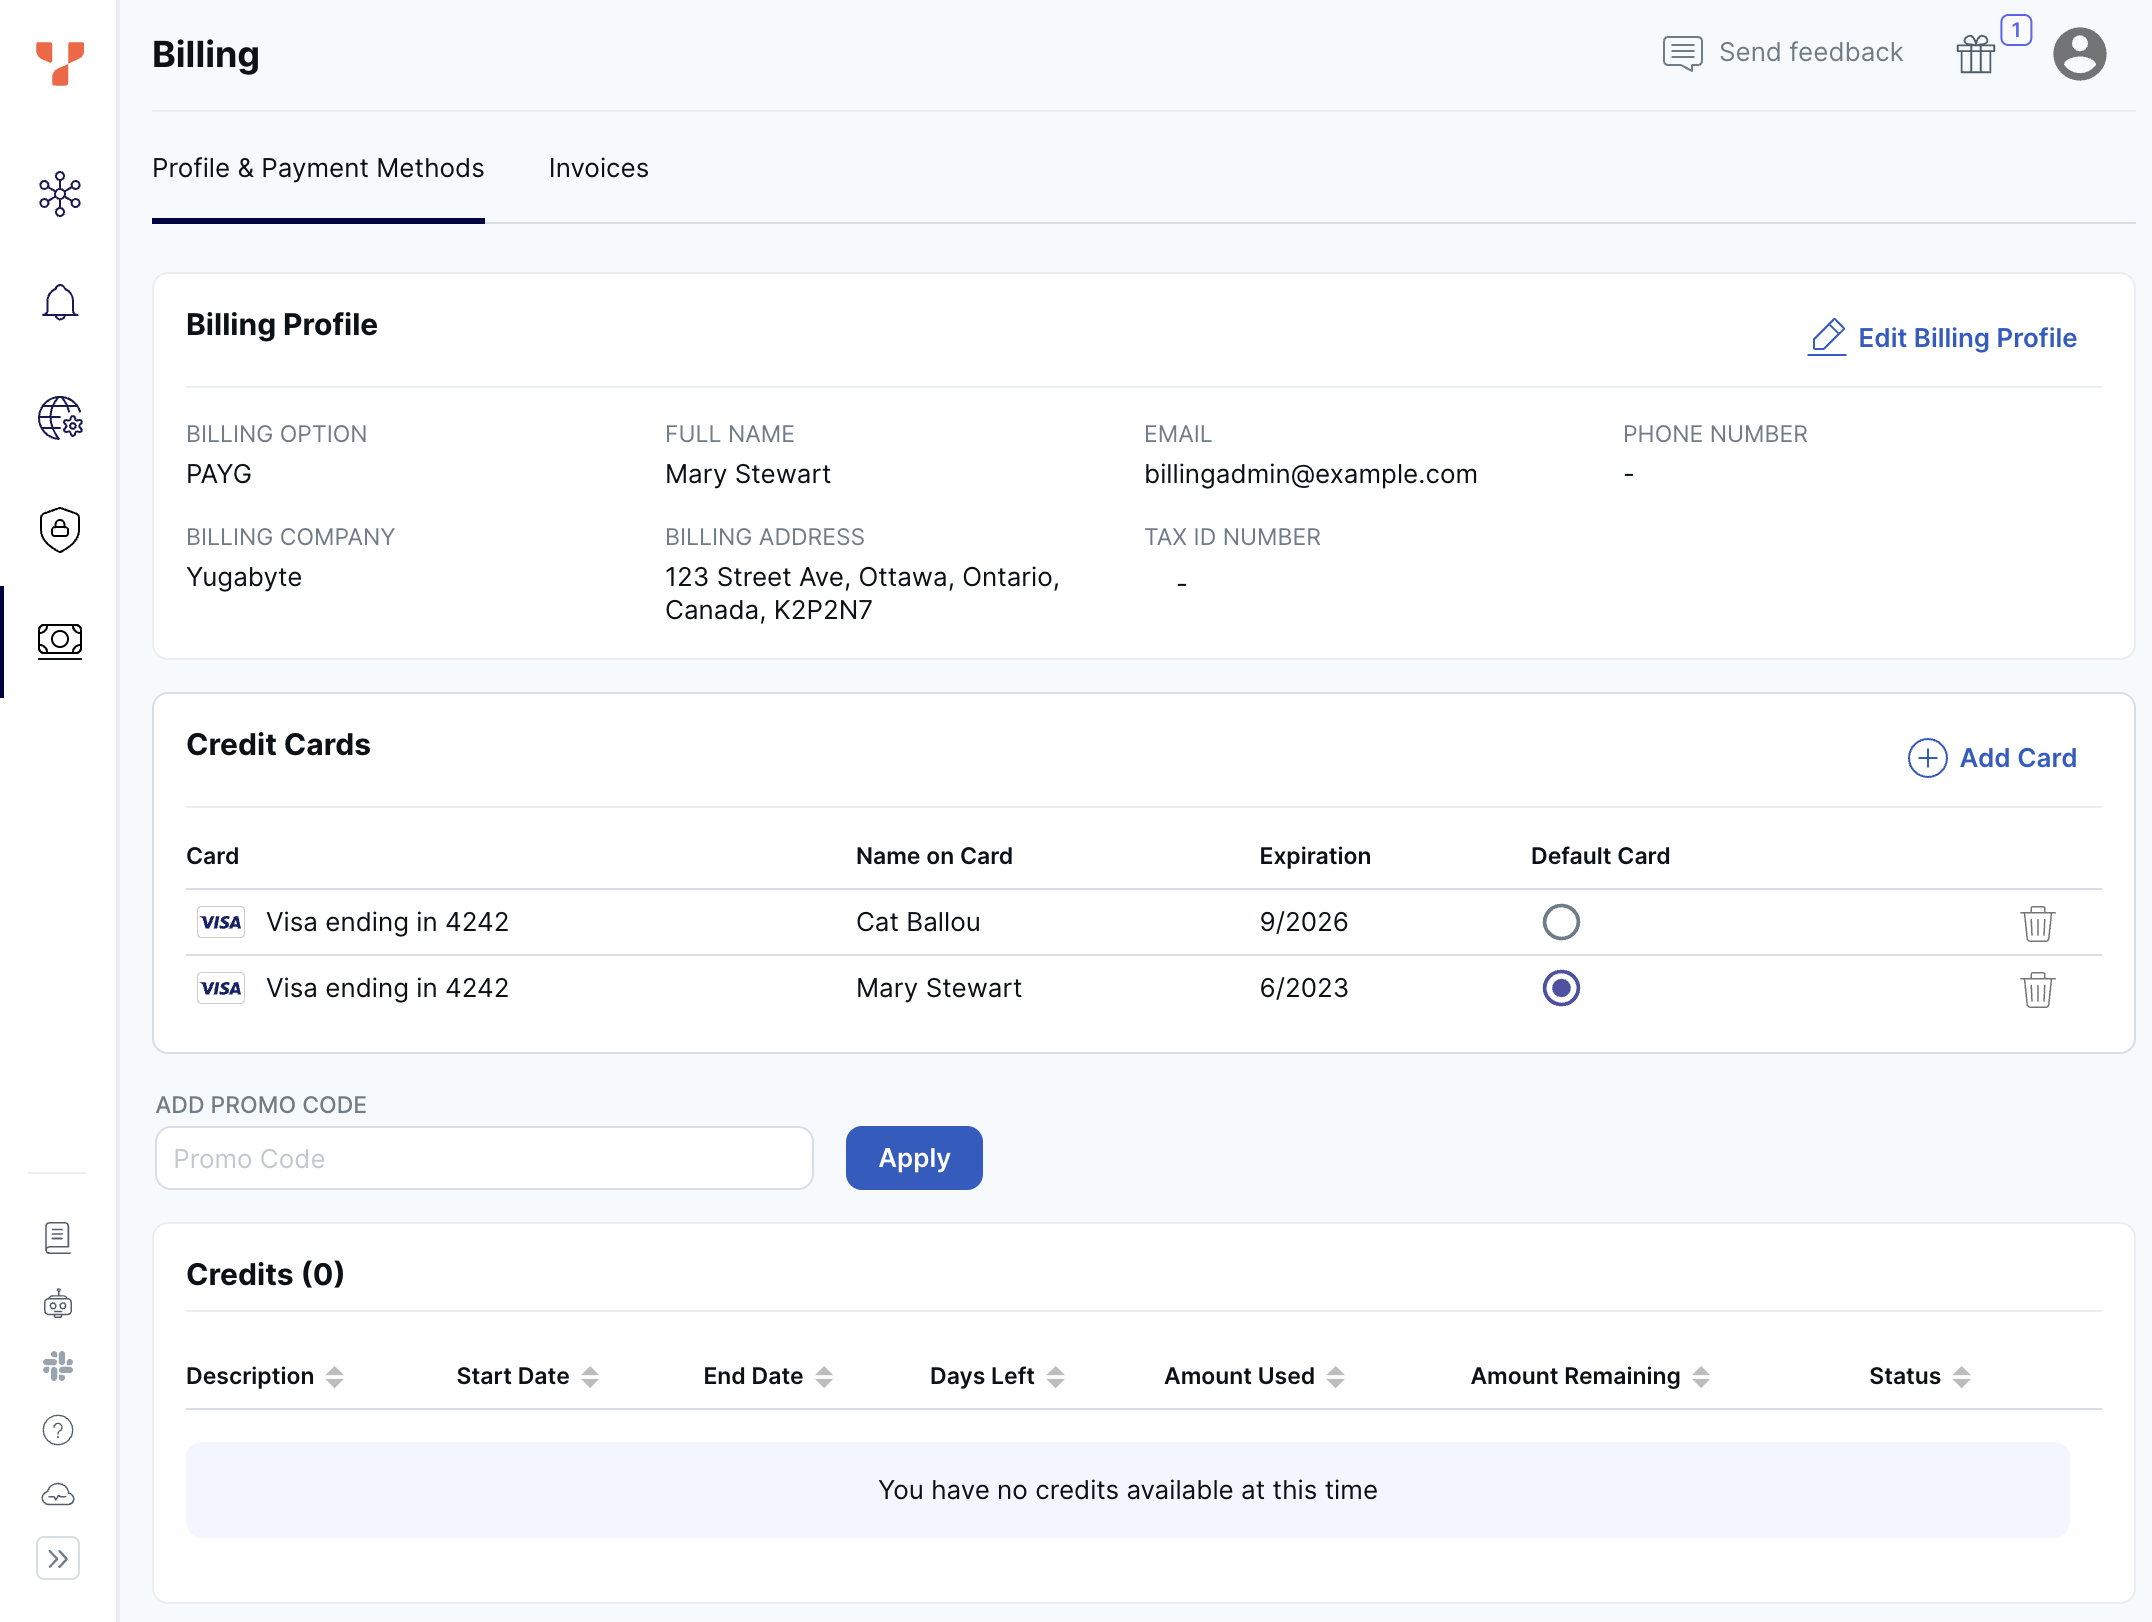
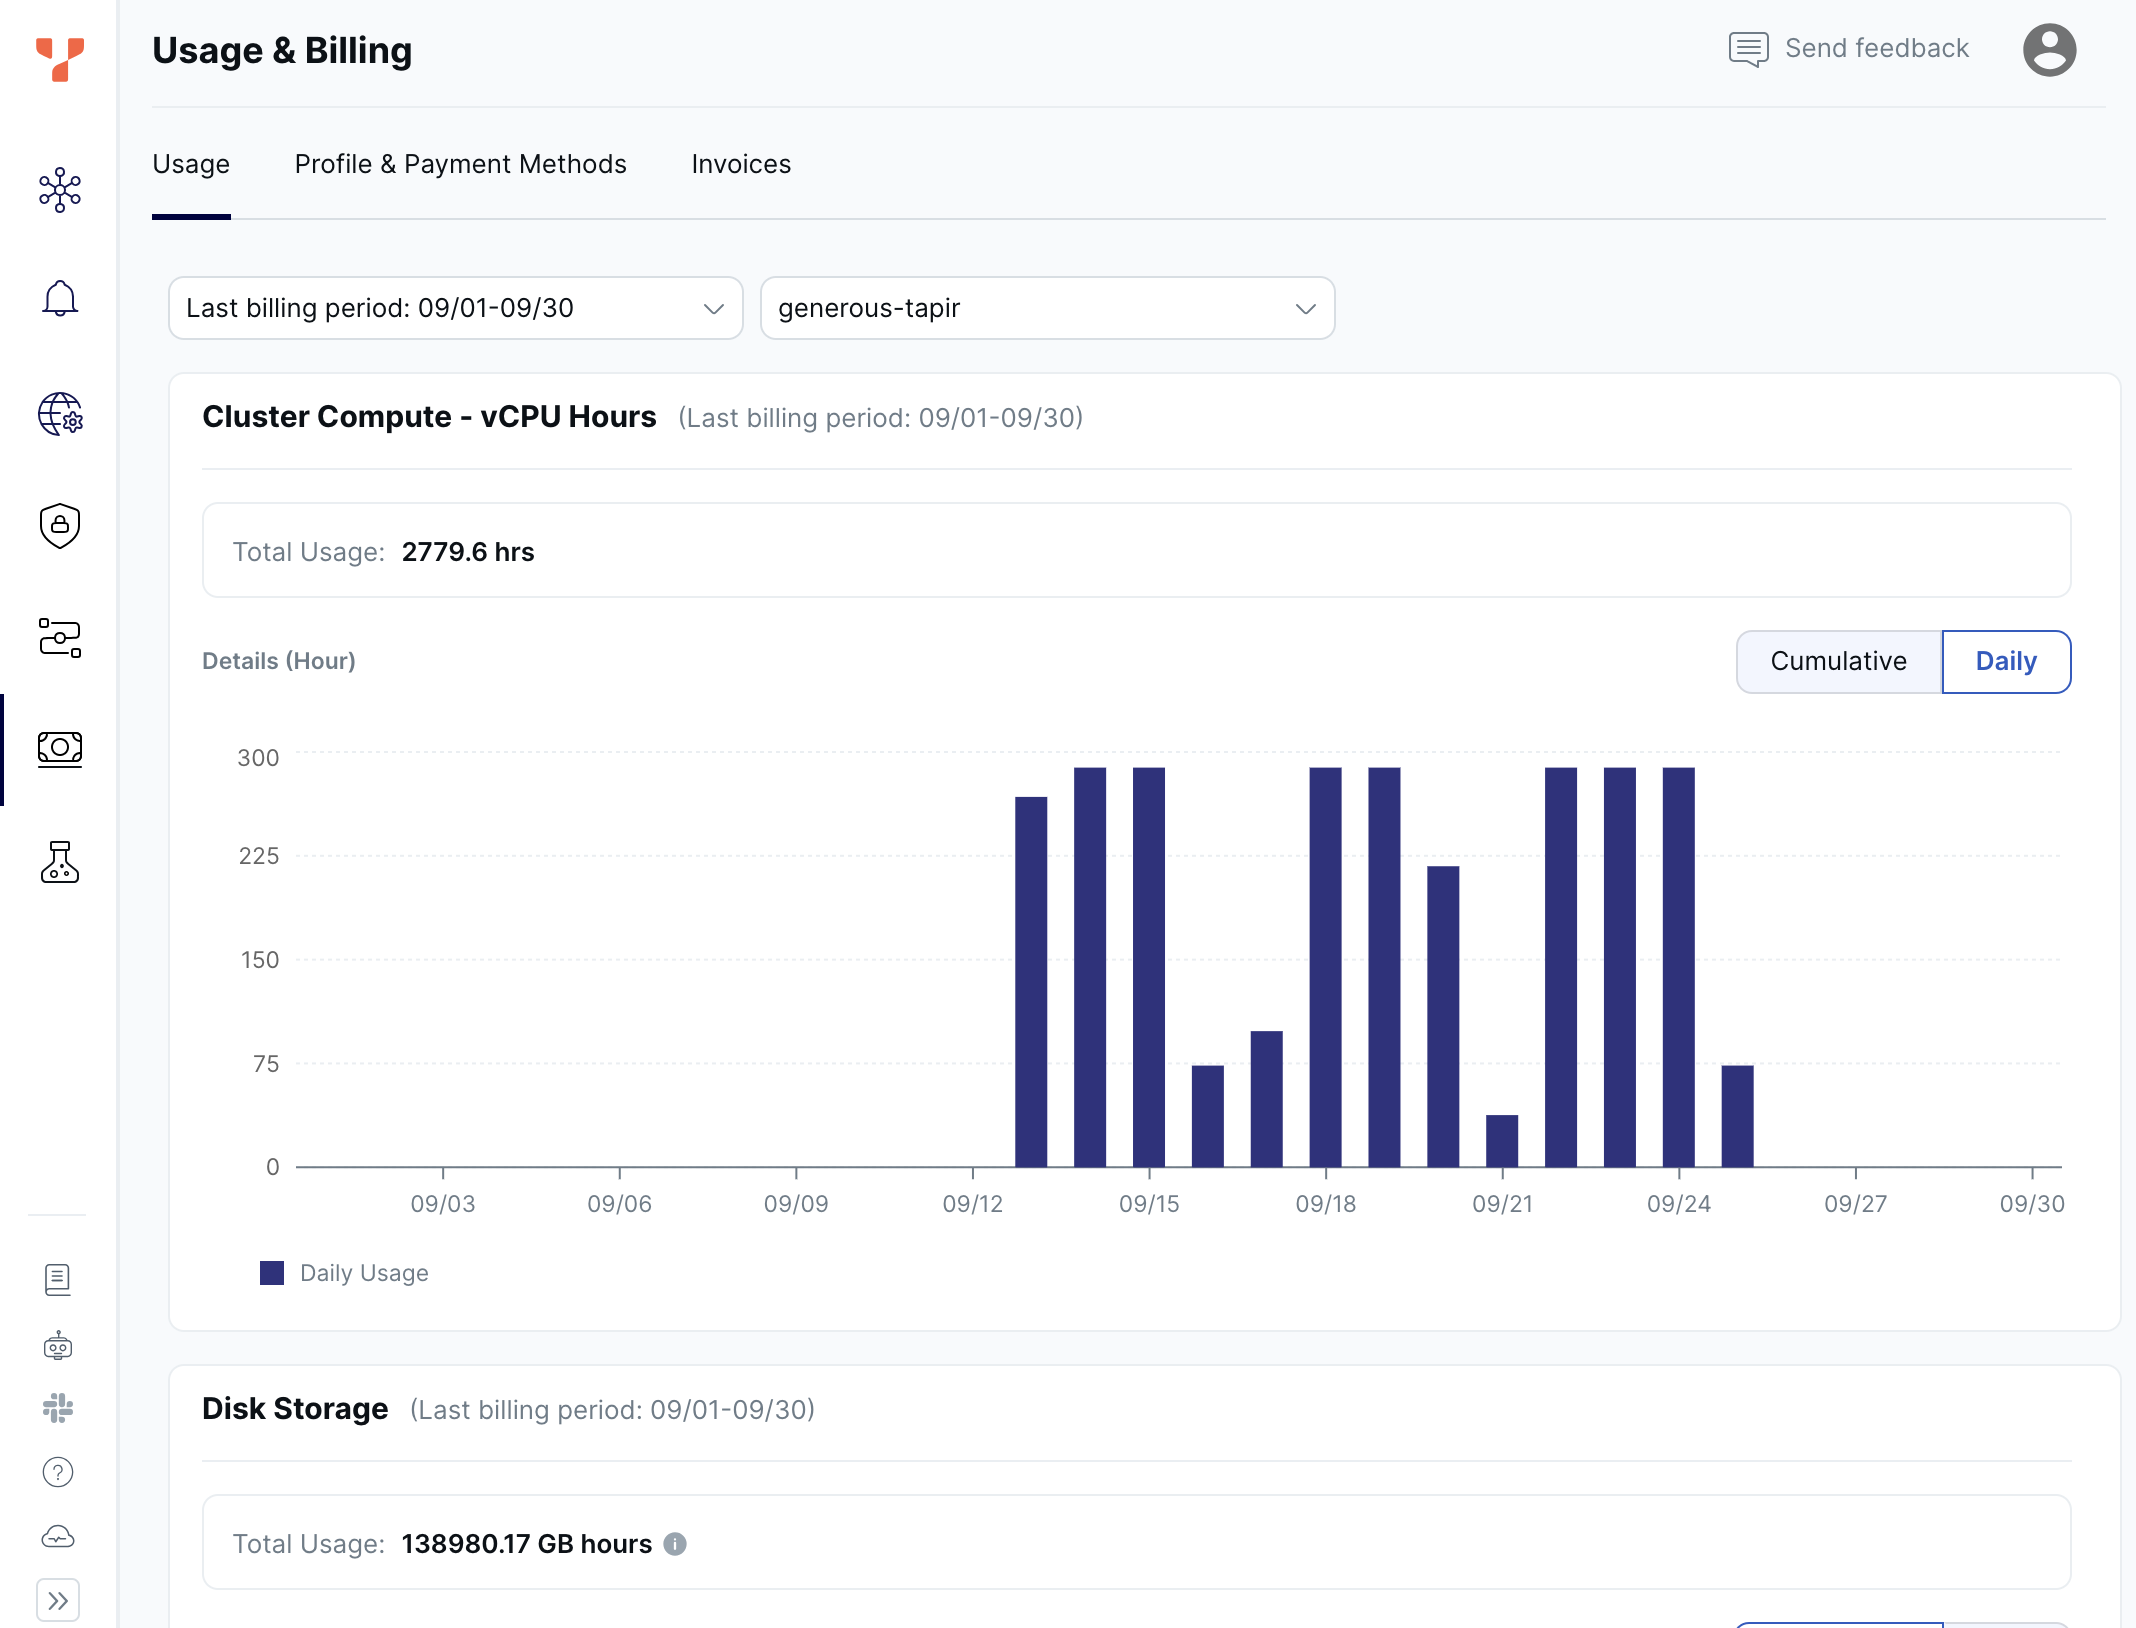
Add Usage to Billing

diff --git a/docs/content/preview/yugabyte-cloud/cloud-admin/cloud-billing-profile.md b/docs/content/preview/yugabyte-cloud/cloud-admin/cloud-billing-profile.md
@@ -12,21 +12,30 @@ menu:
 type: docs
 ---
 
-Review your charges and manage your billing profile and payment methods using the **Billing** page.
+Review your usage and charges, and manage your billing profile and payment methods using the **Usage & Billing** page.
 
 Yugabyte bills for its services as follows:
 
 - Charges by the minute for your YugabyteDB Managed clusters.
 - Tabulates costs daily.
-- Displays your current monthly costs under **Invoices** on the **Billing** page.
+- Displays your current monthly costs under **Invoices** on the **Usage & Billing** page.
 
 **Invoices are sent to the email provided in the Billing Profile**.
 
 For information on YugabyteDB Managed pricing, refer to the [YugabyteDB Managed Standard Price List](https://www.yugabyte.com/yugabyte-cloud-standard-price-list/). For a description of how cluster configurations are costed, refer to [Cluster costs](../cloud-billing-costs/).
 
-![Billing tab](/images/yb-cloud/cloud-admin-billing.png)
+![Usage & Billing tab](/images/yb-cloud/cloud-admin-billing.png)
 
-The **Billing** page has the following tabs: **Profile and Payment Methods**, and **Invoices**.
+The **Usage & Billing** page has the following tabs: **Usage**, **Profile and Payment Methods**, and **Invoices**.
+
+## Usage
+
+Use this section to review your usage by cluster over time. You can view cumulative and daily usage of the following:
+
+- cluster compute (vCPU hours)
+- disk storage
+- cloud backup storage
+- data transfer
 
 ## Profile and Payment Methods
 
@@ -40,7 +49,7 @@ If you want to switch from paying by credit card to another method, contact {{% 
 
 To add or change your billing profile:
 
-1. On the **Billing** page, select **Profile and Payment Methods** and click **Edit Billing Profile** to display the **Edit Billing Profile** sheet. If you haven't yet created a billing profile, click **Create Billing Profile**.
+1. On the **Usage & Billing** page, select **Profile and Payment Methods** and click **Edit Billing Profile** to display the **Edit Billing Profile** sheet. If you haven't yet created a billing profile, click **Create Billing Profile**.
 1. Edit your contact information.
 1. If you are creating your billing profile, enter your credit card details. For other payment methods, set the **Billing Options** to **Other**. You can only set the **Billing Options** if you are creating your profile.
 1. Click **Save**.
@@ -49,7 +58,7 @@ To add or change your billing profile:
 
 To add a credit card:
 
-1. On the **Billing** page, select **Profile and Payment Methods** and click **Add Card** to display the **Add Credit Card** dialog.
+1. On the **Usage & Billing** page, select **Profile and Payment Methods** and click **Add Card** to display the **Add Credit Card** dialog.
 1. Enter your credit card details.
 1. To use the card as the default for payment, choose **Set as default credit card**.
 1. Click **Save**.

diff --git a/docs/content/preview/yugabyte-cloud/cloud-admin/cloud-billing-costs.md b/docs/content/preview/yugabyte-cloud/cloud-admin/cloud-billing-costs.md
@@ -12,7 +12,7 @@ menu:
 type: docs
 ---
 
-There are no set-up charges or commitments to begin using YugabyteDB Managed. At the end of the month, you are automatically charged for that month's usage. You can view your charges for the current billing period at any time by selecting the **Invoices** tab on the **Billing** page. Refer to [Manage your billing profile and payment method](../cloud-billing-profile/).
+There are no set-up charges or commitments to begin using YugabyteDB Managed. At the end of the month, you are automatically charged for that month's usage. You can view your charges for the current billing period at any time by selecting the **Invoices** tab on the **Usage & Billing** page. Refer to [Manage your billing profile and payment method](../cloud-billing-profile/).
 
 Your bill is calculated based on your usage of the following dimensions:
 

diff --git a/docs/content/preview/yugabyte-cloud/cloud-admin/_index.md b/docs/content/preview/yugabyte-cloud/cloud-admin/_index.md
@@ -4,7 +4,7 @@ headerTitle: Billing
 linkTitle: Billing
 description: Billing and Invoicing.
 image: /images/section_icons/explore/administer.png
-headcontent: Manage billing and payment methods, and review invoices
+headcontent: Manage billing and payment methods, and review invoices and usage
 menu:
   preview_yugabyte-cloud:
     parent: yugabytedb-managed
@@ -13,7 +13,7 @@ menu:
 type: indexpage
 ---
 
-Before you can add Dedicated clusters, you need to create a billing profile and add a payment method. You manage your billing profile and payment methods, and review invoices from the **Billing** page.
+Before you can add Dedicated clusters, you need to create a billing profile and add a payment method. You review your usage, manage your billing profile and payment methods, and review invoices from the **Usage & Billing** page.
 
 <div class="row">
 

diff --git a/docs/content/preview/yugabyte-cloud/release-notes.md b/docs/content/preview/yugabyte-cloud/release-notes.md
@@ -395,7 +395,7 @@ On this page:
   - allow list changes
 
 - Support for multiple Admin users on your account, and Admin users can now change the role of existing users. You can also invite multiple users at once, and assign them a role (Developer or Admin) when you invite them. You manage users using the **Users** tab on the **Security** page.
-- Additional charts on the **Invoices** on the **Billing** page, which break costs down by cluster and infrastructure (instance costs, storage, and data transfer) so that you can quickly evaluate your costs.
+- Additional charts on the **Invoices** on the **Usage & Billing** page, which break costs down by cluster and infrastructure (instance costs, storage, and data transfer) so that you can quickly evaluate your costs.
 
 **Fixes**
 

diff --git a/docs/content/preview/faq/yugabytedb-managed-faq.md b/docs/content/preview/faq/yugabytedb-managed-faq.md
@@ -77,7 +77,7 @@ Yugabyte bills for its services as follows:
 
 - Charges by the minute for your YugabyteDB Managed clusters.
 - Tabulates costs daily.
-- Displays your current monthly costs under **Invoices** on the **Billing** tab.
+- Displays your current monthly costs under **Invoices** on the **Usage & Billing** tab.
 
 For information on YugabyteDB Managed pricing, refer to the [YugabyteDB Managed Standard Price List](https://www.yugabyte.com/yugabyte-cloud-standard-price-list/). For a description of how cluster configurations are costed, refer to [Cluster costs](../../yugabyte-cloud/cloud-admin/cloud-billing-costs/).
 
